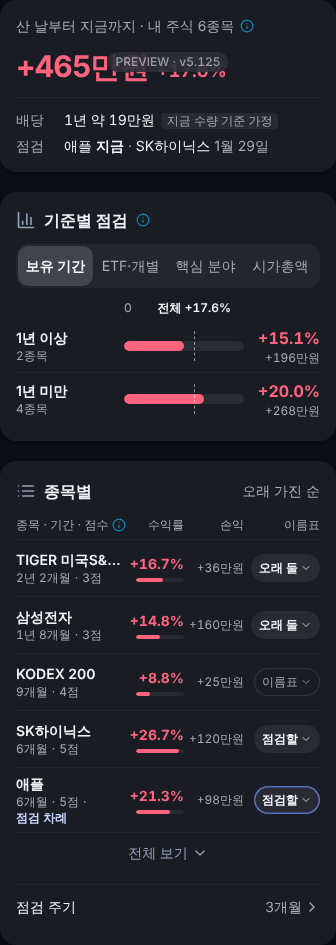
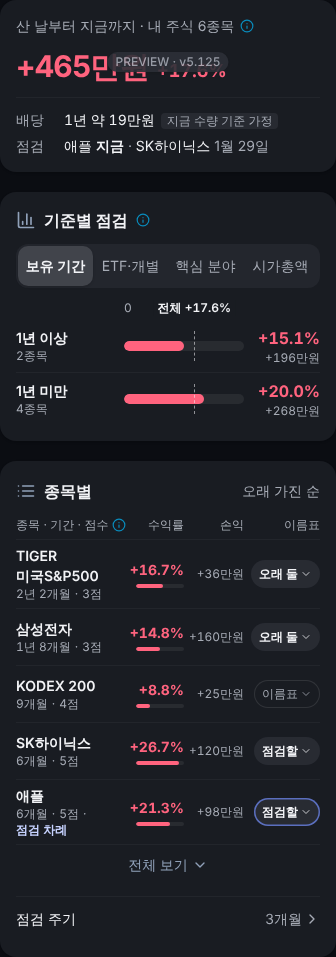
memory: #239 UI 승인 @814847b

diff --git a/issues/5.125-239-grow-my-assets/5.125-ui-review.md b/issues/5.125-239-grow-my-assets/5.125-ui-review.md
@@ -387,3 +387,14 @@ R-1 수정 커밋 뒤 팝오버 2개를 320에서 다시 열어 캡처를 추가
 **UI 수정 요청 @39f2ef5** (1건)
 - `stock-label-block.tsx:445` 구간표 `<p>`: 2열 격자로 바꾼다(`grid grid-cols-2 gap-x-3 gap-y-0.5 tabular-nums`, 항목마다 `5점 15% 이상` 하나씩, 가운뎃점 없음). 그러면 `5점|4점` / `3점|2점` / `1점` 3줄로 정렬되고 높이는 지금과 같다(3줄). 모바일·1280 모두 같은 모양이다.
 - 그 밖(①②, 점수 ⓘ 높이·괄호, 공용 InfoHint)은 통과다. 수정 뒤에는 390·1280 점수 ⓘ 캡처 2장만 본다.
+
+### 재설계 3차 3차 재검수 (head `814847b`)
+- 원격 head는 `814847b`로 일치하고 pageerror는 0이다. 도구는 `tools/ui-review-r3x3.mjs`, 캡처는 `r3x3-score-{320x844,390x600,1280x900}.png`.
+- 구간표가 2열 격자다. `5점 15% 이상 | 4점 10% 이상` / `3점 5% 이상 | 2점 0% 이상` / `1점 0% 미만`의 3줄이고, 두 열 시작 위치(13·150px)가 세 크기에서 같다. 끊긴 어절은 0이다.
+- 팝오버:
+  - 320: 309~626(317px)
+  - 1280: 208~590(382px)
+  - 390×600: 아래 끝 588로 화면 안이고, 넘치는 부분은 팝오버 안에서 스크롤된다.
+  - developer가 잰 472와 다른 것은 ⓘ를 화면 어디에서 열었느냐(스크롤 위치) 차이다. 어느 쪽이든 화면 밖으로 잘리는 글자는 0이다.
+
+**UI 승인 @814847b** — 재설계 3차 UI 검수 항목 전부(c43d375 수정 요청 3건 + 39f2ef5 구간표).
